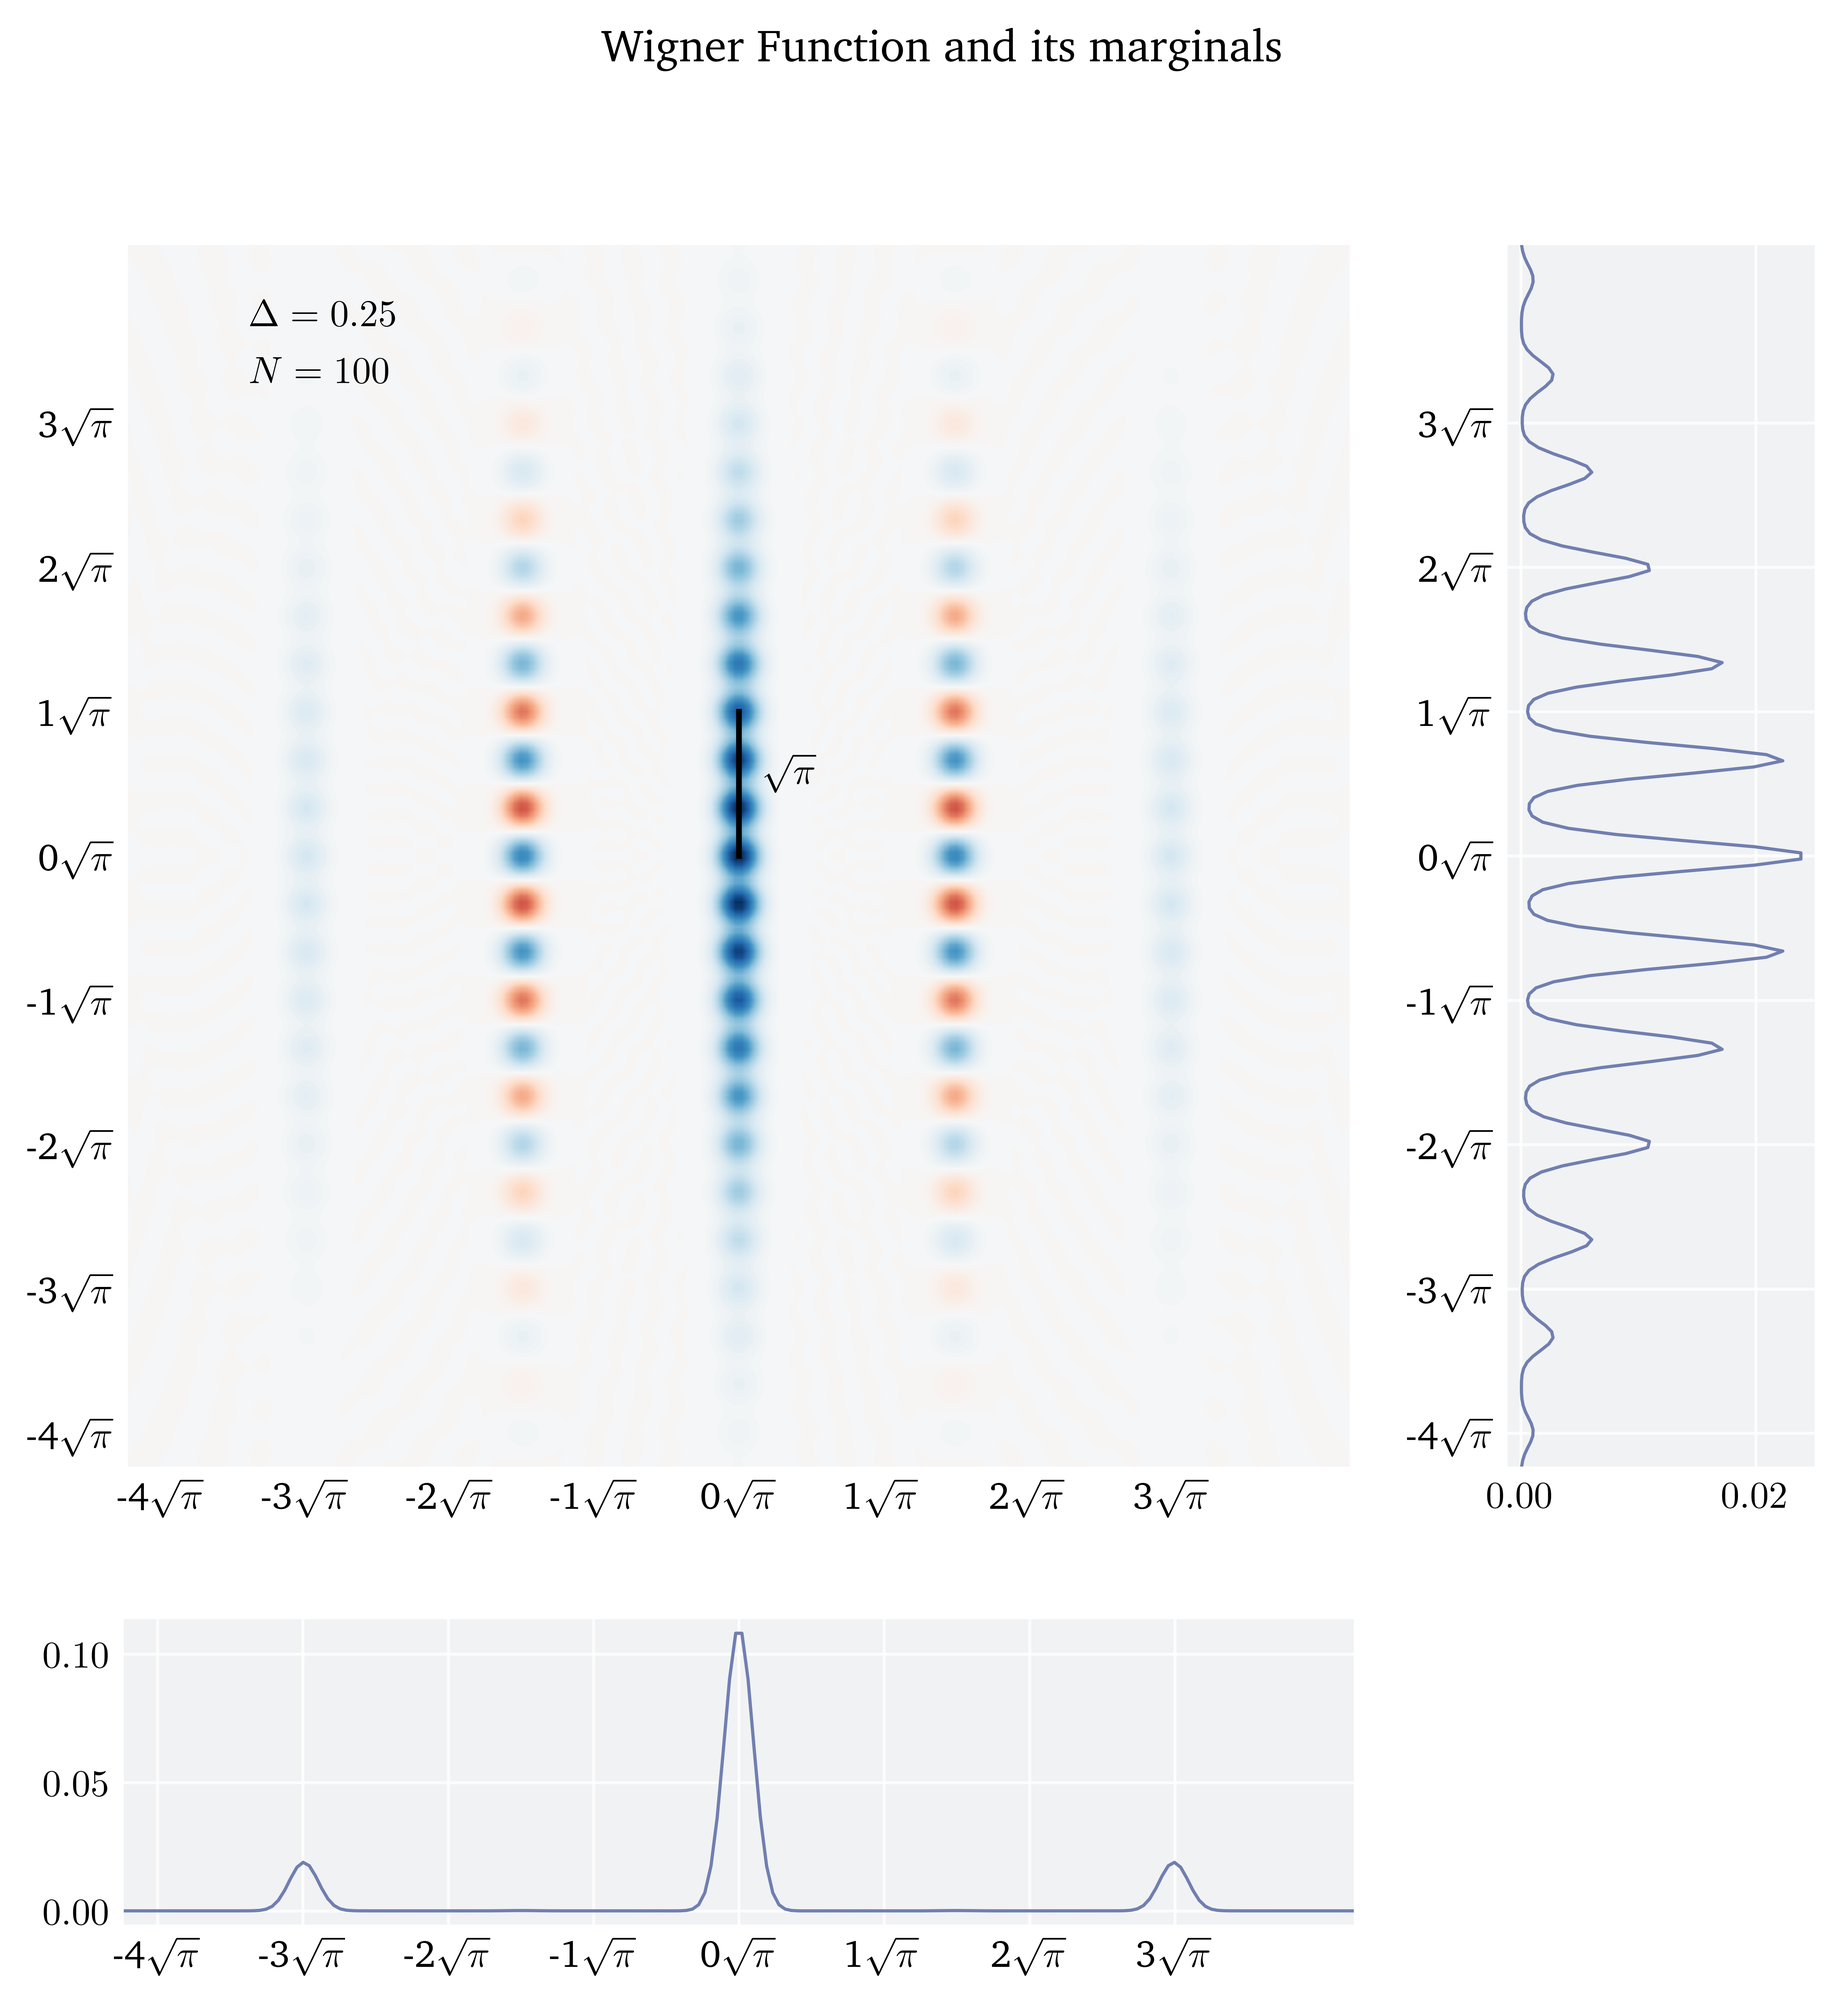
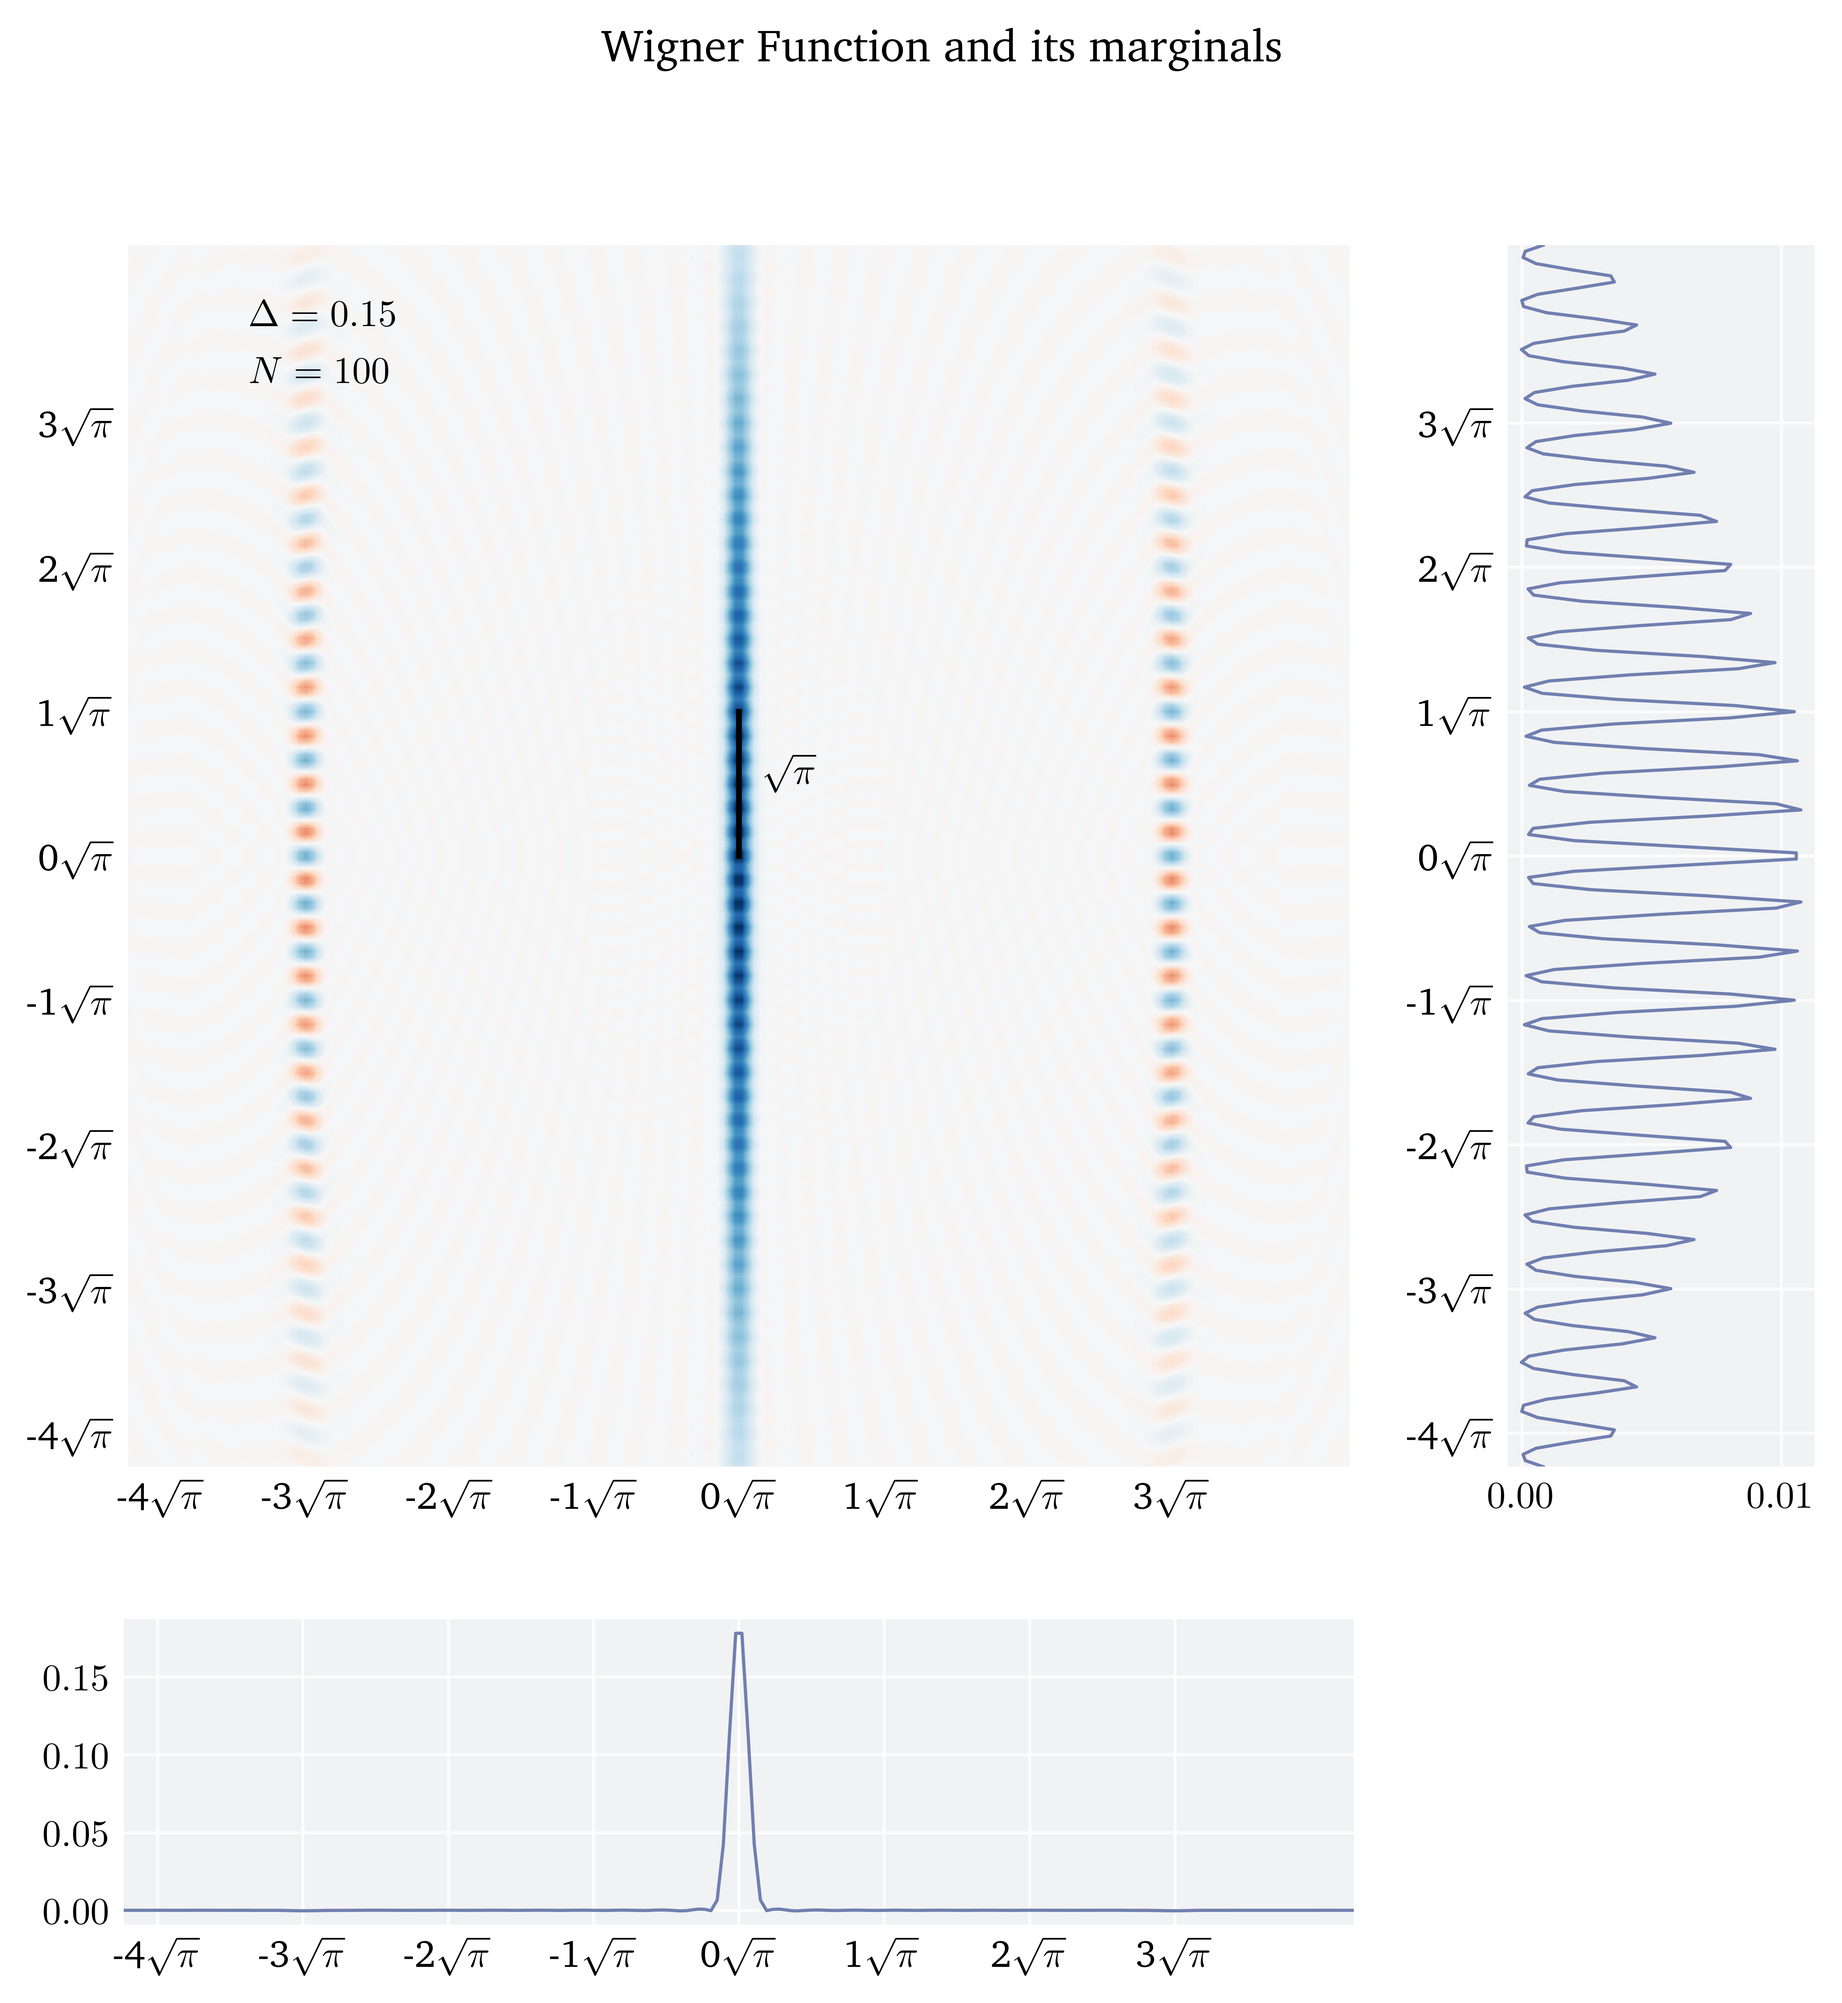
jsremoved

diff --git a/stage_baptiste/projects/Other_GKPs/GKP_8.py b/stage_baptiste/projects/Other_GKPs/GKP_8.py
@@ -18,9 +18,9 @@ from matplotlib.transforms import Affine2D
 import mpl_toolkits.axisartist.floating_axes as floating_axes
 
 
-delta = 0.25
+delta = 0.15
 dim = 100
-osc = GKP(2,1,delta,100).state
+osc = GKP(8,4,delta,100).state
 
 a = destroy(dim)
 
@@ -34,8 +34,8 @@ n = a.dag()*a
 H = n**2
 tlist = np.linspace(0,pi/16,10)
 options = Options(store_states=True)  # get states even if e_ops are calculated
-out = mesolve(H, osc, tlist, [], [])
-psi = out.states[0]
+# out = mesolve(H, osc, tlist, [], [])
+psi = osc
 if psi.type == 'ket' or psi.type == 'bra':
     rho = ket2dm(psi)
 else:

diff --git a/stage_baptiste/homemades/finite_GKP.py b/stage_baptiste/homemades/finite_GKP.py
@@ -44,7 +44,7 @@ def get_d_gkp(d, number, delta, hilbert_dim, peak_range=10):
     """
     ns = np.arange(0,hilbert_dim,2)  # considering pair Fock states only
     js = np.arange(1, peak_range+1, 1)  # considering only the peaks in range of peak_range
-    js = js + js*number/d
+    js = js + number/d
     coeffs, eigen_states, states = [],[],[]  # creating the lists to return
     # calculating the coefficients c2n
     for n in ns:  # for each eigenstates
